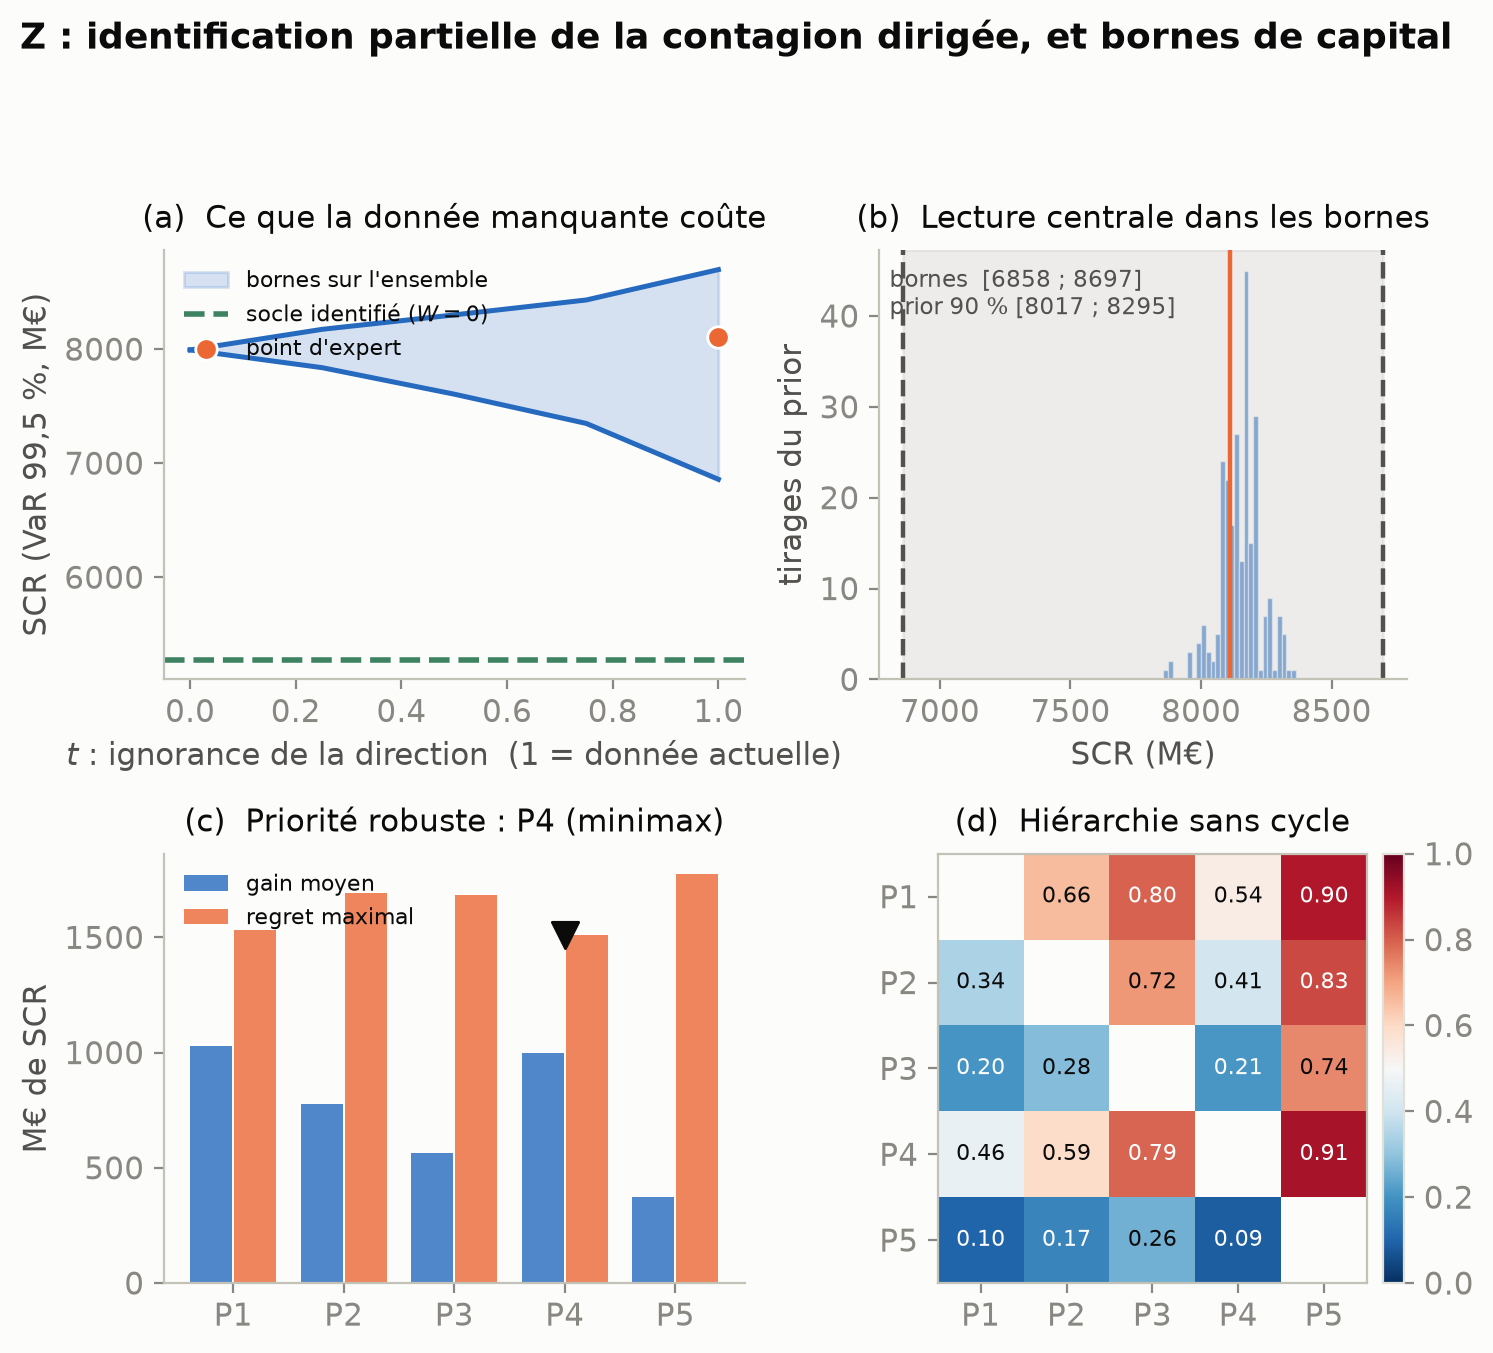
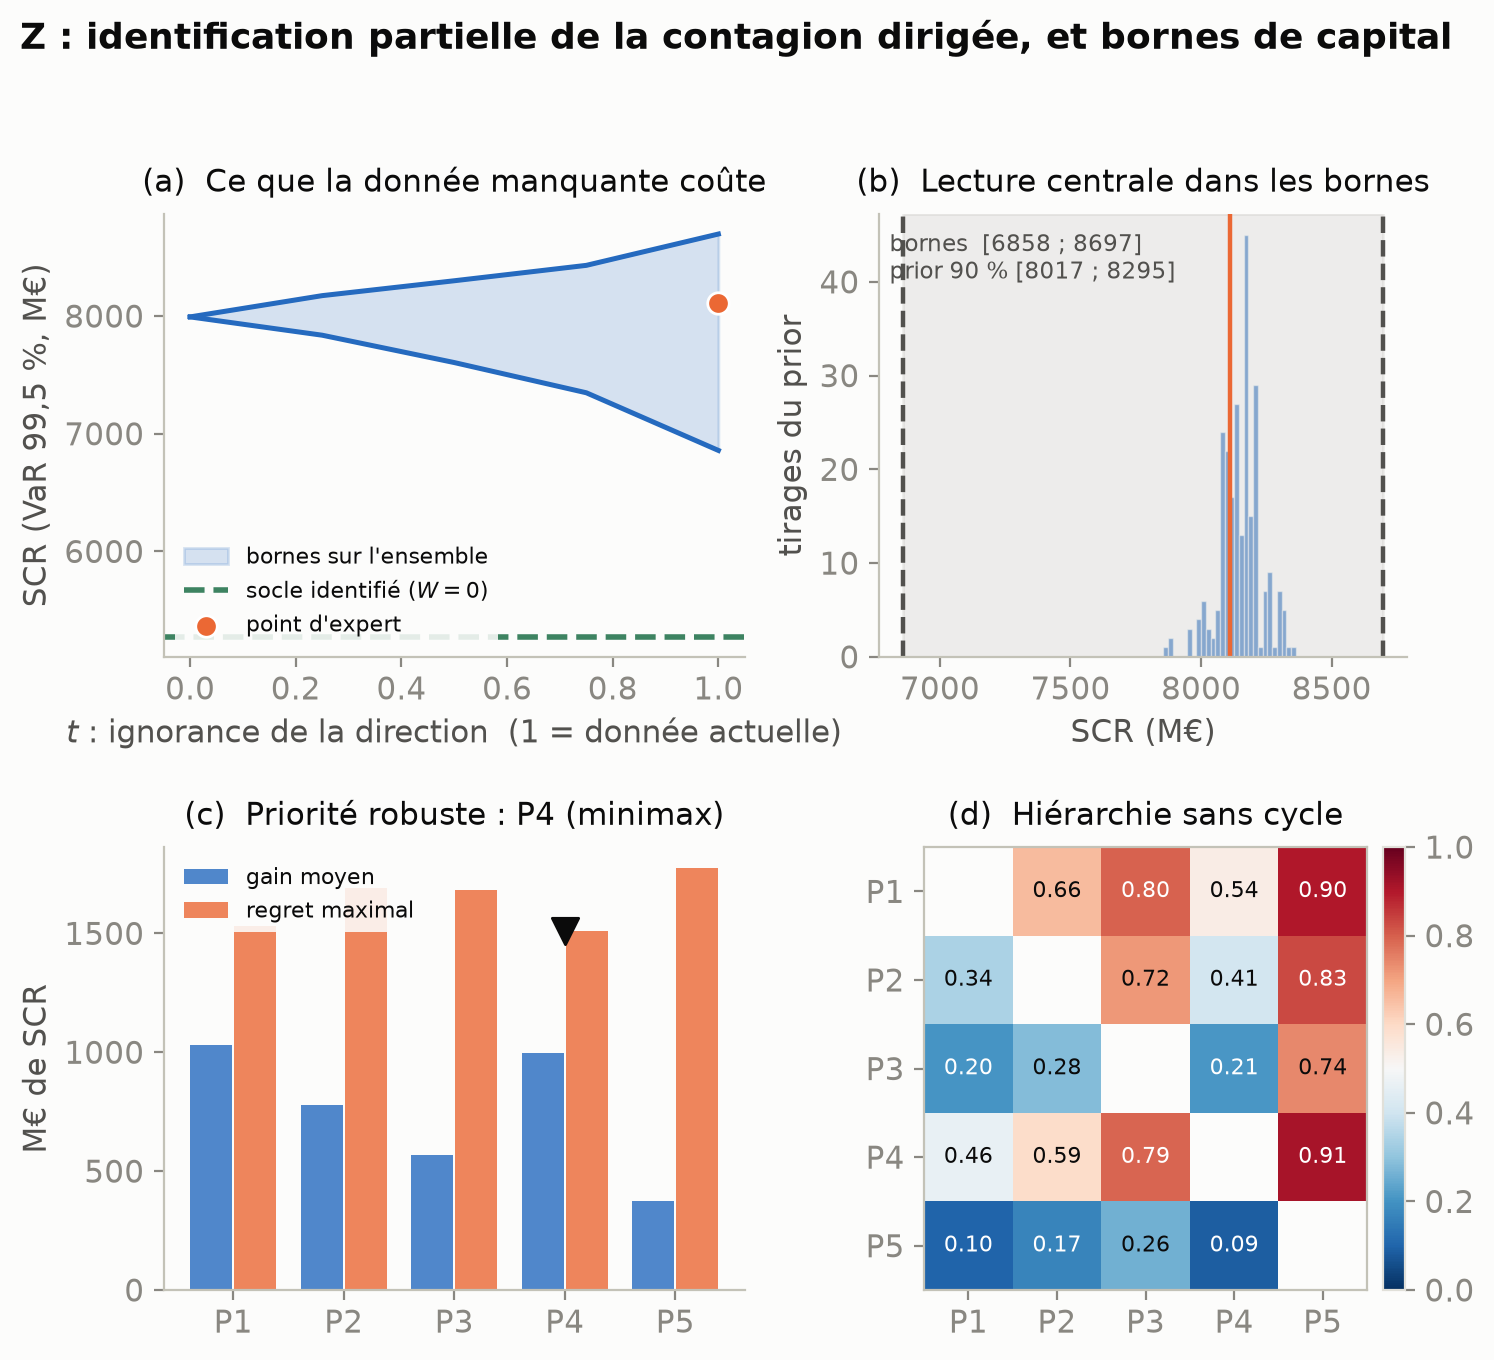
Regression rattrapee : la legende opaque du panneau (a) masquait les donnees
Le job d'arriere-plan qui regenerait les figures 58, 59 et 30 s'est termine APRES le commit
7ab49ff, et avait donc reecrit Z_identification_partielle avec une version anterieure du
code. Detecte en comparant l'horodatage du fichier a celui du commit.

En la regenerant proprement, un defaut introduit par ma correction precedente est apparu :
donner un fond OPAQUE aux legendes avait corrige leur lisibilite mais rendu celle du
panneau (a) MASQUANTE. Placee en haut a gauche, elle recouvrait le debut de la bande de
capital et le point d'expert a t = 0. Une legende transparente illisible etait devenue une
legende lisible qui cache les donnees : le remede pire que le mal.

Deplacee en bas a gauche, dans la zone vide entre le socle et la borne basse. La bande, le
point d'expert et les trois entrees de legende sont maintenant tous visibles.

Lecon de methode : un correctif applique en lot a neuf legendes de cinq figures doit etre
RELU FIGURE PAR FIGURE. La place libre n'est pas au meme endroit d'un panneau a l'autre, et
aucune position par defaut ne convient partout.

Memoire recompile : zero erreur, zero reference indefinie.

diff --git a/exploratory/vasicek_lab/6_contagion/30_identification_partielle_W.py b/exploratory/vasicek_lab/6_contagion/30_identification_partielle_W.py
@@ -247,7 +247,11 @@ ax1.scatter([1.0], [SCR_EXPERT], s=60, color=ACCENT, zorder=6, edgecolor="#fff",
 ax1.set_xlabel("$t$ : ignorance de la direction  (1 = donnée actuelle)", color=INK2)
 ax1.set_ylabel("SCR (VaR 99,5 %, M€)", color=INK2)
 ax1.set_title("(a)  Ce que la donnée manquante coûte", fontsize=11, color=INK, pad=8)
-ax1.legend(frameon=True, facecolor="#fcfcfb", edgecolor="none", framealpha=0.88, fontsize=8, loc="upper left")
+# EN BAS A GAUCHE, ET NON EN HAUT. Rendre la legende opaque a corrige sa lisibilite mais
+# l'a rendue MASQUANTE : en haut a gauche elle recouvrait le debut de la bande et le point
+# d'expert a t = 0. La zone entre le socle et la borne basse est vide : la legende y va.
+ax1.legend(frameon=True, facecolor="#fcfcfb", edgecolor="none", framealpha=0.88,
+           fontsize=8, loc="lower left")
 
 ax2.hist(prior_vals, bins=28, color=BLUE, alpha=0.55, edgecolor="white", linewidth=0.5)
 ax2.axvspan(lo1, hi1, color=MUTED, alpha=0.13)
